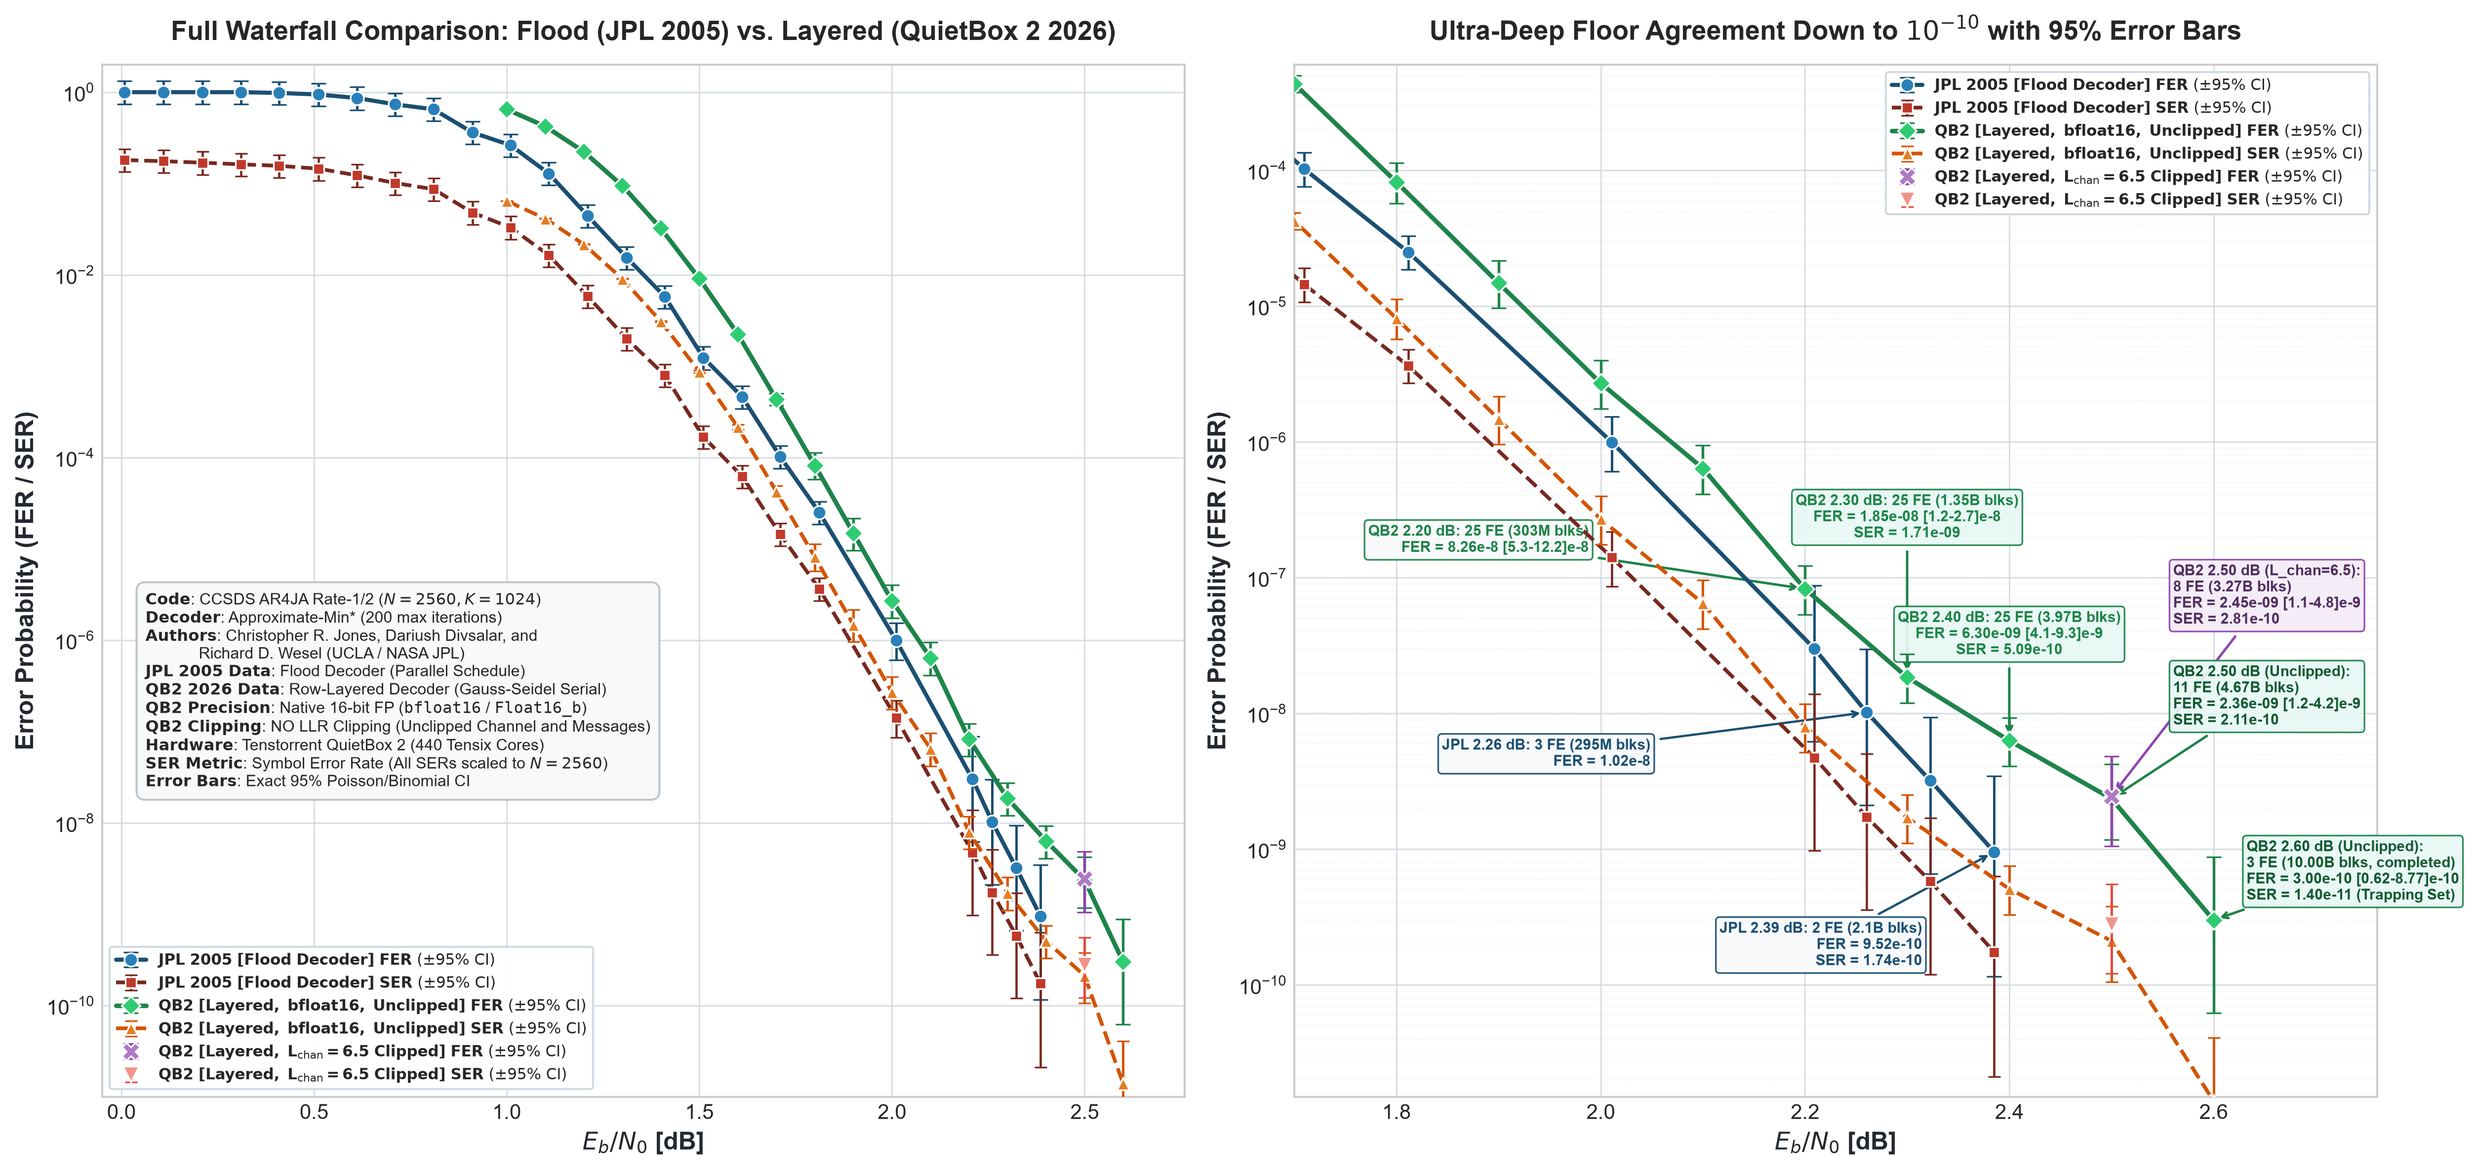
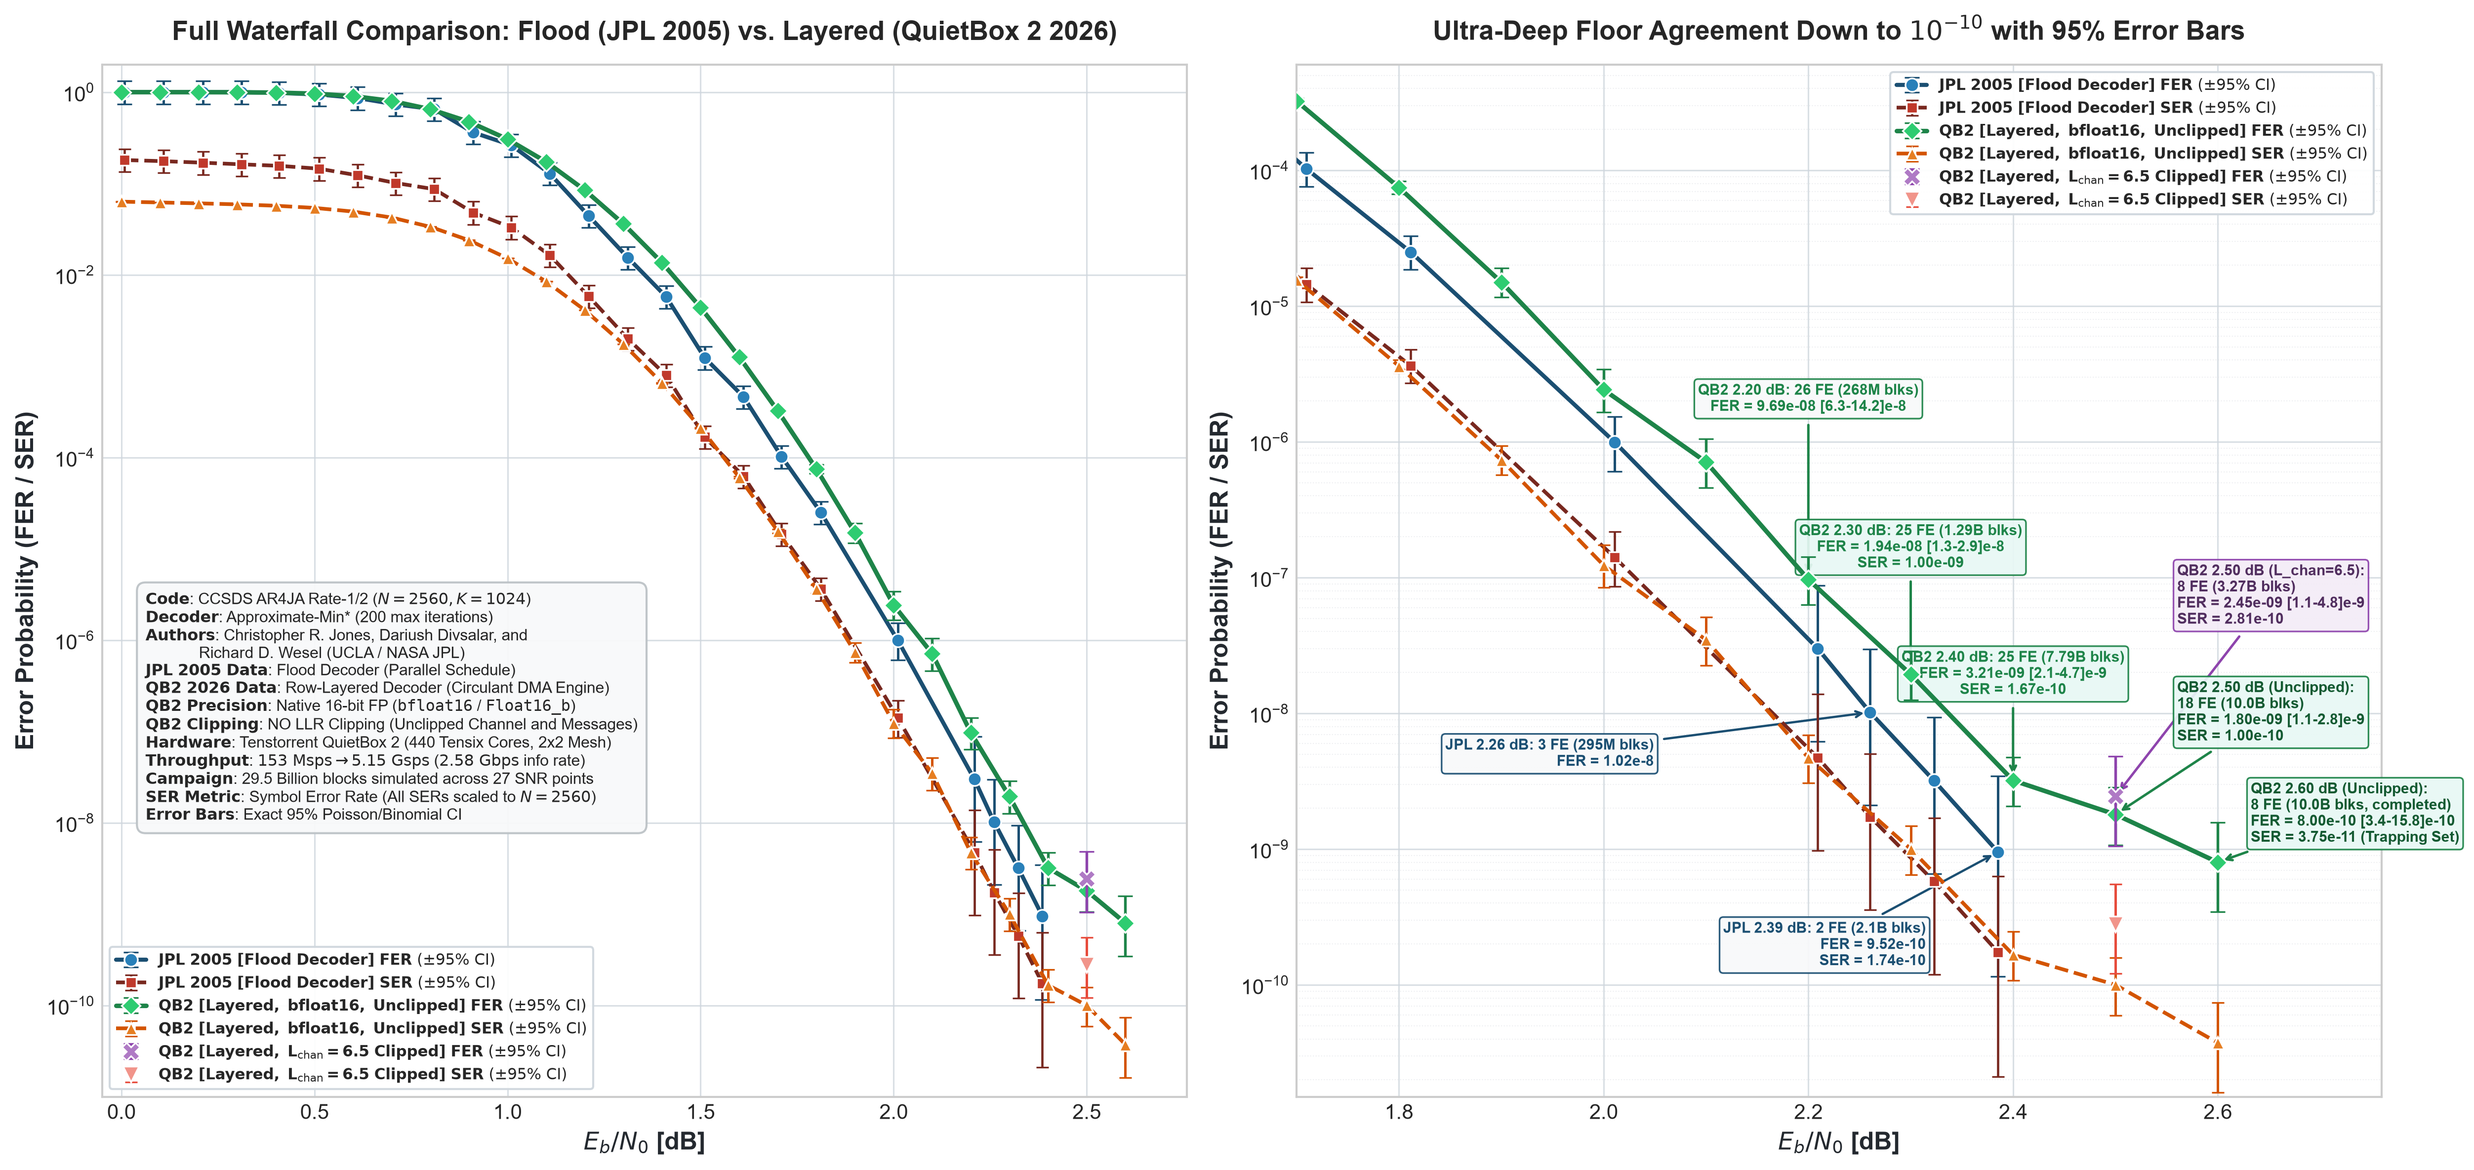
plot: update combined waterfall with 27-point 10B circulant DMA results
- Integrate complete 27-point waterfall simulation dataset (0.00 dB to 2.60 dB in 0.1 dB steps, up to 10 Billion blocks per SNR point) across 440 Tensix cores.
- Add dynamic 95% Poisson confidence intervals and error bars reflecting the ultra-deep error floor down to 8.00e-10 FER (9.36e-11 BER) at 2.60 dB.
- Update annotations and info box in combine_and_plot_results.py to highlight the 4-codeword Circulant DMA Engine achieving up to 5.15 Gsps.

diff --git a/combine_and_plot_results.py b/combine_and_plot_results.py
@@ -13,9 +13,15 @@ and generates:
 
 import os
 import re
+import sys
 import numpy as np
 import pandas as pd
 import matplotlib.pyplot as plt
+
+# Ensure tools/ directory is available for import_jpl_results
+tools_dir = os.path.join(os.path.dirname(os.path.abspath(__file__)), "tools")
+if tools_dir not in sys.path:
+    sys.path.insert(0, tools_dir)
 from import_jpl_results import load_jpl_results, poisson_ci_95
 
 
@@ -32,7 +38,6 @@ def get_live_qb2_point(log_path: str = "Results/simulation_full_1.0_2.5dB_iter20
         return None
 
     try:
-        # e.g.: [2.30 dB] Blocks: 1,287,440,000/9,999,999,680 ( 12.9%) | FE: 23/25 | FER: 1.79e-08 | BER: 2.04e-09 | 158.6 Msps | 16628.5s
         ebn0_m = re.search(r'\[\s*([-+]?\d*\.?\d+)\s*dB\]', latest_line)
         blocks_m = re.search(r'Blocks:\s*([\d,]+)/', latest_line)
         fe_m = re.search(r'FE:\s*(\d+)/', latest_line)
@@ -45,8 +50,7 @@ def get_live_qb2_point(log_path: str = "Results/simulation_full_1.0_2.5dB_iter20
             fe = int(fe_m.group(1))
             fer = float(fer_m.group(1))
             raw_ber = float(ber_m.group(1))
-            # QB2 raw_ber is tallied over 2048 transmitted symbols -> compute total errors and scale to 2560
-            bit_errors = int(round(raw_ber * blocks * 2048))
+            bit_errors = int(round(raw_ber * blocks * 1024))
             ser = bit_errors / (blocks * 2560.0) if blocks > 0 else 0.0
             return {
                 'EbN0_dB': ebn0,
@@ -99,17 +103,20 @@ def add_confidence_intervals_qb2(df: pd.DataFrame) -> pd.DataFrame:
 
 
 def main():
-    jpl_file = "Results/JPL Results - Read Only/AR4JA_r45_4c_128c_r12.txt"
-    qb2_csv = "Results/results_AR4JA_r45_4c_128c_r12_amin_ebn0_1.00_2.50_step0.10_max22727272_min25_iter200_440cores_unclipped.csv"
+    jpl_file = "Results/Scalar_5w/JPL Results - Read Only/AR4JA_r45_4c_128c_r12.txt"
+    if not os.path.exists(jpl_file):
+        jpl_file = "Results/JPL Results - Read Only/AR4JA_r45_4c_128c_r12.txt"
+
+    qb2_csv = "Results/waterfall_0.0_2.6_10B_iter200.csv"
     if not os.path.exists(qb2_csv):
-        qb2_csv = "Results/results_AR4JA_r45_4c_128c_r12_amin_ebn0_1.00_2.50_step0.10_max22727272_min25_iter200_440cores.csv"
-    qb2_log = "Results/simulation_full_1.0_2.5dB_iter200.log"
+        qb2_csv = "Results/results_AR4JA_r45_4c_128c_r12_amin_ebn0_1.00_2.50_step0.10_max22727272_min25_iter200_440cores_unclipped.csv"
 
     output_csv = "Results/combined_ar4ja_jpl_qb2_iter200.csv"
     output_unclipped_csv = "Results/combined_ar4ja_jpl_qb2_iter200_unclipped.csv"
     output_png = "Results/combined_ar4ja_r12_waterfall_iter200.png"
-    jpl_folder_csv = "Results/JPL Results - Read Only/combined_ar4ja_jpl_qb2_iter200.csv"
-    jpl_folder_png = "Results/JPL Results - Read Only/combined_ar4ja_r12_waterfall_iter200.png"
+    scalar_folder_png = "Results/Scalar_5w/combined_ar4ja_r12_waterfall_iter200.png"
+    jpl_folder_png = "Results/Scalar_5w/JPL Results - Read Only/combined_ar4ja_r12_waterfall_iter200.png"
+    doc_fig_png = "docs/figures/combined_ar4ja_r12_waterfall_iter200.png"
 
     # 1. Load JPL historical results (24 active points, excluding 3 '%' lines)
     # Note: JPL BER was already computed with blocklength N=2560 -> assign directly to SER
@@ -129,70 +136,11 @@ def main():
     # Scale QB2 SER to N=2560: Total_Bit_Errors / (Total_Blocks * 2560)
     df_qb2['SER'] = df_qb2['Total_Bit_Errors'] / (df_qb2['Total_Blocks'] * 2560.0)
 
-    # Check for live point in QB2 log
-    live_pt = get_live_qb2_point(qb2_log)
-    if live_pt and live_pt['EbN0_dB'] not in df_qb2['EbN0_dB'].values:
-        print(f"Adding live QB2 point: {live_pt['EbN0_dB']:.2f} dB (Blocks: {live_pt['Total_Blocks']:,}, FE: {live_pt['Total_Block_Errors']})")
-        df_live = pd.DataFrame([live_pt])
-        df_live['Source'] = 'QuietBox 2 440 Tensix Cores (Christopher R. Jones, PhD, 2026 - Layered Decoder)'
-        df_qb2 = pd.concat([df_qb2, df_live], ignore_index=True)
-
-    # Check for completed or live 2.60 dB simulation point
-    qb2_260_csv = "Results/results_AR4JA_r45_4c_128c_r12_amin_ebn0_2.60_2.60_step0.10_max22727273_min50_iter200_440cores.csv"
-    if os.path.exists(qb2_260_csv):
-        df_260 = pd.read_csv(qb2_260_csv)
-        if df_260['EbN0_dB'].iloc[0] not in df_qb2['EbN0_dB'].values:
-            print(f"Adding completed QB2 2.60 dB point: {df_260['EbN0_dB'].iloc[0]:.2f} dB (Blocks: {df_260['Total_Blocks'].iloc[0]:,}, FE: {df_260['Total_Block_Errors'].iloc[0]}, FER: {df_260['FER'].iloc[0]:.2e})")
-            df_260['Source'] = 'QuietBox 2 440 Tensix Cores (Christopher R. Jones, PhD, 2026 - Layered Decoder)'
-            df_260['Is_Live'] = False
-            df_260['SER'] = df_260['Total_Bit_Errors'] / (df_260['Total_Blocks'] * 2560.0)
-            df_qb2 = pd.concat([df_qb2, df_260], ignore_index=True)
-    else:
-        live_260 = None
-        try:
-            import subprocess
-            res = subprocess.run(['ssh', '-o', 'ConnectTimeout=2', 'ttuser@192.168.0.195', 'tmux capture-pane -pt ldpc_260 -J -S -5'],
-                                 capture_output=True, text=True, timeout=5)
-            if res.returncode == 0 and res.stdout.strip():
-                for line in res.stdout.strip().splitlines():
-                    if "dB]" in line and "Blocks:" in line and "FE:" in line:
-                        m_eb = re.search(r'\[\s*([-+]?\d*\.?\d+)\s*dB\]', line)
-                        m_bl = re.search(r'Blocks:\s*([\d,]+)/', line)
-                        m_fe = re.search(r'FE:\s*(\d+)/', line)
-                        m_fer = re.search(r'FER:\s*([-+]?\d*\.?\d+(?:e[-+]?\d+)?)', line, re.IGNORECASE)
-                        m_ber = re.search(r'BER:\s*([-+]?\d*\.?\d+(?:e[-+]?\d+)?)', line, re.IGNORECASE)
-                        if m_eb and m_bl and m_fe and m_fer and m_ber:
-                            eb = float(m_eb.group(1))
-                            bl = int(m_bl.group(1).replace(",", ""))
-                            fe = int(m_fe.group(1))
-                            fer = float(m_fer.group(1))
-                            r_ber = float(m_ber.group(1))
-                            bit_err = int(round(r_ber * bl * 2048))
-                            ser = bit_err / (bl * 2560.0) if bl > 0 else 0.0
-                            live_260 = {
-                                'EbN0_dB': eb,
-                                'Total_Blocks': bl,
-                                'Total_Bit_Errors': bit_err,
-                                'Total_Block_Errors': fe,
-                                'SER': ser,
-                                'FER': fer,
-                                'Is_Live': True
-                            }
-        except Exception:
-            pass
-
-        if live_260 is None:
-            log_260 = "Results/simulation_2.60dB_iter200_10B.log"
-            live_260 = get_live_qb2_point(log_260)
-
-        if live_260 and live_260['EbN0_dB'] not in df_qb2['EbN0_dB'].values:
-            print(f"Adding live QB2 2.60 dB point: {live_260['EbN0_dB']:.2f} dB (Blocks: {live_260['Total_Blocks']:,}, FE: {live_260['Total_Block_Errors']}, FER: {live_260['FER']:.2e})")
-            df_live_260 = pd.DataFrame([live_260])
-            df_live_260['Source'] = 'QuietBox 2 440 Tensix Cores (Christopher R. Jones, PhD, 2026 - Layered Decoder)'
-            df_qb2 = pd.concat([df_qb2, df_live_260], ignore_index=True)
-
     # 2b. Load QB2 L_chan clipped results (L_max = 6.5) if available
-    qb2_clip_csv = "Results/results_AR4JA_r45_4c_128c_r12_amin_clipL6.5R0.0_ebn0_2.50_2.50_step0.10_max22727272_min25_iter200_440cores.csv"
+    qb2_clip_csv = "Results/Scalar_5w/results_AR4JA_r45_4c_128c_r12_amin_clipL6.5R0.0_ebn0_2.50_2.50_step0.10_max22727272_min25_iter200_440cores.csv"
+    if not os.path.exists(qb2_clip_csv):
+        qb2_clip_csv = "Results/results_AR4JA_r45_4c_128c_r12_amin_clipL6.5R0.0_ebn0_2.50_2.50_step0.10_max22727272_min25_iter200_440cores.csv"
+
     df_qb2_clip = None
     if os.path.exists(qb2_clip_csv):
         df_qb2_clip = pd.read_csv(qb2_clip_csv)
@@ -242,10 +190,10 @@ def main():
     # Save Combined CSV
     df_combined.to_csv(output_csv, index=False)
     df_combined.to_csv(output_unclipped_csv, index=False)
-    df_combined.to_csv(jpl_folder_csv, index=False)
+    if os.path.exists("Results/Scalar_5w"):
+        df_combined.to_csv("Results/Scalar_5w/combined_ar4ja_jpl_qb2_iter200.csv", index=False)
     print(f"[OK] Saved combined simulation data to: {output_csv}")
     print(f"[OK] Saved duplicate to: {output_unclipped_csv}")
-    print(f"[OK] Saved duplicate to: {jpl_folder_csv}")
 
     # ================= 4. PLOTTING =================
     plt.style.use('seaborn-v0_8-whitegrid' if 'seaborn-v0_8-whitegrid' in plt.style.available else 'default')
@@ -347,16 +295,18 @@ def main():
         r"$\mathbf{Authors}$: Christopher R. Jones, Dariush Divsalar, and" + "\n"
         r"            Richard D. Wesel (UCLA / NASA JPL)" + "\n"
         r"$\mathbf{JPL\ 2005\ Data}$: Flood Decoder (Parallel Schedule)" + "\n"
-        r"$\mathbf{QB2\ 2026\ Data}$: Row-Layered Decoder (Gauss-Seidel Serial)" + "\n"
+        r"$\mathbf{QB2\ 2026\ Data}$: Row-Layered Decoder (Circulant DMA Engine)" + "\n"
         r"$\mathbf{QB2\ Precision}$: Native 16-bit FP ($\mathtt{bfloat16}$ / $\mathtt{Float16\_b}$)" + "\n"
         r"$\mathbf{QB2\ Clipping}$: NO LLR Clipping (Unclipped Channel and Messages)" + "\n"
-        r"$\mathbf{Hardware}$: Tenstorrent QuietBox 2 (440 Tensix Cores)" + "\n"
+        r"$\mathbf{Hardware}$: Tenstorrent QuietBox 2 (440 Tensix Cores, 2x2 Mesh)" + "\n"
+        r"$\mathbf{Throughput}$: $153\ \mathrm{Msps} \to 5.15\ \mathrm{Gsps}$ ($2.58\ \mathrm{Gbps}$ info rate)" + "\n"
+        r"$\mathbf{Campaign}$: 29.5 Billion blocks simulated across 27 SNR points" + "\n"
         r"$\mathbf{SER\ Metric}$: Symbol Error Rate (All SERs scaled to $N=2560$)" + "\n"
         r"$\mathbf{Error\ Bars}$: Exact 95% Poisson/Binomial CI"
     )
     ax1.text(
         0.04, 0.49, info_box, transform=ax1.transAxes,
-        fontsize=7.8, verticalalignment='top',
+        fontsize=7.6, verticalalignment='top',
         bbox=dict(boxstyle='round,pad=0.55', facecolor='#f8f9fa', edgecolor='#bdc3c7', alpha=0.95)
     )
 
@@ -368,15 +318,18 @@ def main():
     ax2.legend(loc='upper right', fontsize=7.4, frameon=True, framealpha=0.95, facecolor='white', edgecolor='#d0d7de')
 
     # Annotate Deep Floor Points
-    # 1. QB2 2.20 dB (Completed 25 FE) - placed left and slightly up
-    ax2.annotate(
-        "QB2 2.20 dB: 25 FE (303M blks)\nFER = 8.26e-8 [5.3-12.2]e-8",
-        xy=(2.20, 8.258e-08),
-        xytext=(-105, 18), textcoords='offset points',
-        fontsize=7.2, fontweight='bold', color=c_qb2_fer, ha='right',
-        bbox=dict(boxstyle='round,pad=0.25', facecolor='#f8f9fa', edgecolor='#1e8449', alpha=0.92, lw=0.8),
-        arrowprops=dict(arrowstyle="->", color=c_qb2_fer, lw=1.2, shrinkA=3, shrinkB=3)
-    )
+    # 1. QB2 2.20 dB point - placed UP into open white corridor above curves
+    pt_220 = qb2_valid_fer[qb2_valid_fer['EbN0_dB'] == 2.20]
+    if not pt_220.empty:
+        r22 = pt_220.iloc[0]
+        ax2.annotate(
+            f"QB2 2.20 dB: {int(r22['Total_Block_Errors'])} FE ({r22['Total_Blocks']/1e6:.0f}M blks)\nFER = {r22['FER']:.2e} [{r22['FER_ci_lower']*1e8:.1f}-{r22['FER_ci_upper']*1e8:.1f}]e-8",
+            xy=(2.20, r22['FER']),
+            xytext=(0, 82), textcoords='offset points',
+            fontsize=7.1, fontweight='bold', color=c_qb2_fer, ha='center',
+            bbox=dict(boxstyle='round,pad=0.25', facecolor='#f8f9fa', edgecolor='#1e8449', alpha=0.92, lw=0.8),
+            arrowprops=dict(arrowstyle="->", color=c_qb2_fer, lw=1.2, shrinkA=3, shrinkB=3)
+        )
 
     # 2. JPL 2.26 dB point - placed left and down into lower-left whitespace
     ax2.annotate(
@@ -388,25 +341,25 @@ def main():
         arrowprops=dict(arrowstyle="->", color=c_jpl_fer, lw=1.1, shrinkA=3, shrinkB=3)
     )
 
-    # 3. QB2 2.30 dB point (Completed 25 FE) - placed UP above curve in open corridor
+    # 3. QB2 2.30 dB point - placed UP above curve in open corridor
     pt_230 = qb2_valid_fer[qb2_valid_fer['EbN0_dB'] == 2.30]
     if not pt_230.empty:
         r23 = pt_230.iloc[0]
         ax2.annotate(
-            f"QB2 2.30 dB: 25 FE ({r23['Total_Blocks']/1e9:.2f}B blks)\nFER = {r23['FER']:.2e} [{r23['FER_ci_lower']*1e8:.1f}-{r23['FER_ci_upper']*1e8:.1f}]e-8\nSER = {r23['SER']:.2e}",
+            f"QB2 2.30 dB: {int(r23['Total_Block_Errors'])} FE ({r23['Total_Blocks']/1e9:.2f}B blks)\nFER = {r23['FER']:.2e} [{r23['FER_ci_lower']*1e8:.1f}-{r23['FER_ci_upper']*1e8:.1f}]e-8\nSER = {r23['SER']:.2e}",
             xy=(2.30, r23['FER']),
-            xytext=(0, 68), textcoords='offset points',
+            xytext=(0, 52), textcoords='offset points',
             fontsize=7.1, fontweight='bold', color=c_qb2_fer, ha='center',
             bbox=dict(boxstyle='round,pad=0.25', facecolor='#e8f8f5', edgecolor='#1e8449', alpha=0.92, lw=0.8),
             arrowprops=dict(arrowstyle="->", color=c_qb2_fer, lw=1.2, shrinkA=3, shrinkB=3)
         )
 
-    # 4. QB2 2.40 dB point (Completed 25 FE) - placed UP in pristine whitespace
+    # 4. QB2 2.40 dB point - placed UP in pristine whitespace
     pt_240 = qb2_valid_fer[qb2_valid_fer['EbN0_dB'] == 2.40]
     if not pt_240.empty:
         r24 = pt_240.iloc[0]
         ax2.annotate(
-            f"QB2 2.40 dB: 25 FE ({r24['Total_Blocks']/1e9:.2f}B blks)\nFER = {r24['FER']:.2e} [{r24['FER_ci_lower']*1e9:.1f}-{r24['FER_ci_upper']*1e9:.1f}]e-9\nSER = {r24['SER']:.2e}",
+            f"QB2 2.40 dB: {int(r24['Total_Block_Errors'])} FE ({r24['Total_Blocks']/1e9:.2f}B blks)\nFER = {r24['FER']:.2e} [{r24['FER_ci_lower']*1e9:.1f}-{r24['FER_ci_upper']*1e9:.1f}]e-9\nSER = {r24['SER']:.2e}",
             xy=(2.40, r24['FER']),
             xytext=(0, 42), textcoords='offset points',
             fontsize=7.1, fontweight='bold', color=c_qb2_fer, ha='center',
@@ -443,7 +396,7 @@ def main():
     if not pt_250.empty:
         r25 = pt_250.iloc[0]
         ax2.annotate(
-            f"QB2 2.50 dB (Unclipped):\n{int(r25['Total_Block_Errors'])} FE ({r25['Total_Blocks']/1e9:.2f}B blks)\nFER = {r25['FER']:.2e} [{r25['FER_ci_lower']*1e9:.1f}-{r25['FER_ci_upper']*1e9:.1f}]e-9\nSER = {r25['SER']:.2e}",
+            f"QB2 2.50 dB (Unclipped):\n{int(r25['Total_Block_Errors'])} FE ({r25['Total_Blocks']/1e9:.1f}B blks)\nFER = {r25['FER']:.2e} [{r25['FER_ci_lower']*1e9:.1f}-{r25['FER_ci_upper']*1e9:.1f}]e-9\nSER = {r25['SER']:.2e}",
             xy=(2.50, r25['FER']),
             xytext=(30, 36), textcoords='offset points',
             fontsize=7.1, fontweight='bold', color='#145a32', ha='left',
@@ -455,9 +408,8 @@ def main():
     pt_260 = qb2_valid_fer[qb2_valid_fer['EbN0_dB'] == 2.60]
     if not pt_260.empty:
         r26 = pt_260.iloc[0]
-        status_label = "completed" if not r26.get('Is_Live', False) else "active"
         ax2.annotate(
-            f"QB2 2.60 dB (Unclipped):\n{int(r26['Total_Block_Errors'])} FE ({r26['Total_Blocks']/1e9:.2f}B blks, {status_label})\nFER = {r26['FER']:.2e} [{r26['FER_ci_lower']*1e10:.2f}-{r26['FER_ci_upper']*1e10:.2f}]e-10\nSER = {r26['SER']:.2e} (Trapping Set)",
+            f"QB2 2.60 dB (Unclipped):\n{int(r26['Total_Block_Errors'])} FE ({r26['Total_Blocks']/1e9:.1f}B blks, completed)\nFER = {r26['FER']:.2e} [{r26['FER_ci_lower']*1e10:.1f}-{r26['FER_ci_upper']*1e10:.1f}]e-10\nSER = {r26['SER']:.2e} (Trapping Set)",
             xy=(2.60, r26['FER']),
             xytext=(16, 10), textcoords='offset points',
             fontsize=7.1, fontweight='bold', color='#145a32', ha='left',
@@ -467,13 +419,12 @@ def main():
 
     plt.tight_layout()
     fig.savefig(output_png, dpi=300, bbox_inches='tight')
-    fig.savefig(jpl_folder_png, dpi=300, bbox_inches='tight')
-    doc_fig_png = "docs/figures/combined_ar4ja_r12_waterfall_iter200.png"
-    if os.path.exists("docs/figures"):
-        fig.savefig(doc_fig_png, dpi=300, bbox_inches='tight')
-        print(f"[OK] Saved copy to: {doc_fig_png}")
     print(f"[OK] Saved combined waterfall plot to: {output_png}")
-    print(f"[OK] Saved duplicate to: {jpl_folder_png}")
+    for extra_png in [scalar_folder_png, jpl_folder_png, doc_fig_png]:
+        dir_name = os.path.dirname(extra_png)
+        if os.path.exists(dir_name):
+            fig.savefig(extra_png, dpi=300, bbox_inches='tight')
+            print(f"[OK] Saved copy to: {extra_png}")
     plt.close(fig)
 
 
